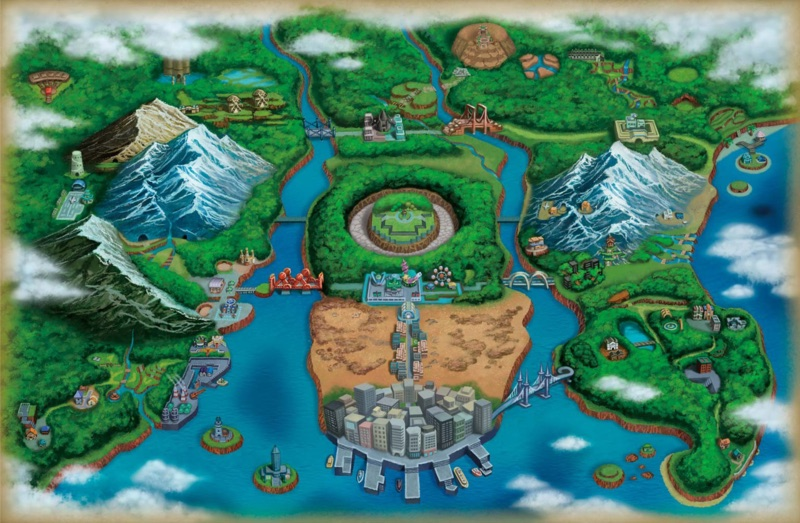
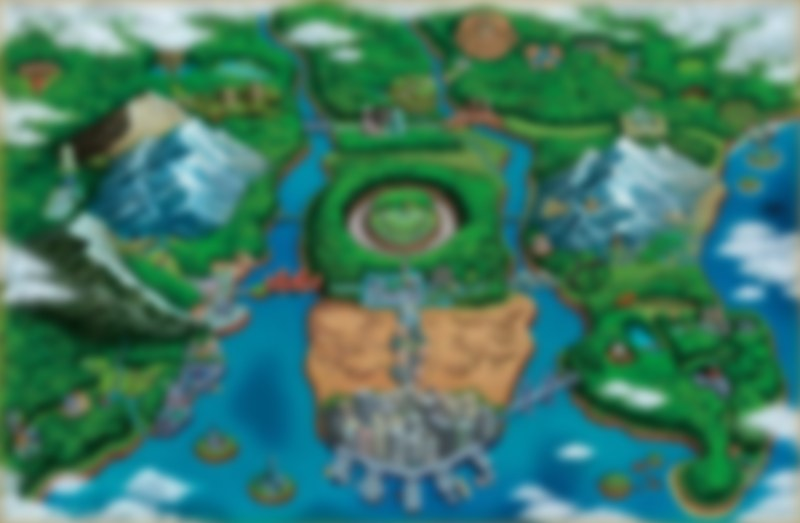
ui

diff --git a/src/components/NodeMap.jsx b/src/components/NodeMap.jsx
@@ -125,10 +125,15 @@ function MapSvg({
               width={(NODE_SIZE * 3.5) / 3} height={(NODE_SIZE * 4.5) / 4}
             />
           </clipPath>
-          <filter id="node-shadow" x="-60%" y="-60%" width="220%" height="220%">
+          {/* Item/pokéball/grass nodes. These draw at NODE_SIZE (or 0.7x for
+              grass) — roughly a THIRD the box the trainer sheet uses — and
+              filter primitives are in user-space units, so reusing the trainer
+              values here produced a shadow far too small and diffuse to read
+              against the map. Scaled up to match the trainers' apparent weight. */}
+          <filter id="node-shadow" x="-80%" y="-80%" width="260%" height="260%">
             {/* Larger, softer, subtler shadow behind the tight one */}
-            <feDropShadow dx="3" dy="7" stdDeviation="9" floodColor="rgba(0,0,0,0.35)" />
-            <feDropShadow dx="2" dy="3" stdDeviation="3" floodColor="rgba(0,0,0,0.9)" />
+            <feDropShadow dx="2" dy="5" stdDeviation="5" floodColor="rgba(0,0,0,0.4)" />
+            <feDropShadow dx="1" dy="2" stdDeviation="1.5" floodColor="rgba(0,0,0,0.95)" />
           </filter>
           <filter id="trainer-shadow" x="-60%" y="-60%" width="220%" height="220%">
             <feDropShadow dx="3" dy="7" stdDeviation="9" floodColor="rgba(0,0,0,0.35)" />
@@ -153,6 +158,36 @@ function MapSvg({
             <feFlood floodColor="#ffffff" result="white" />
             <feComposite in="white" in2="expanded" operator="in" result="outline" />
             <feMerge>
+              <feMergeNode in="outline" />
+              <feMergeNode in="SourceGraphic" />
+            </feMerge>
+          </filter>
+          {/* Small-node (item/pokéball/grass) variants of the two outline
+              filters. Same look as the trainer ones, but the filter region is
+              widened so the yellow glow isn't clipped on these much smaller
+              boxes, and the shadow is merged in — the outline filters replace
+              #node-shadow when a node is reachable/hovered, so without this the
+              drop shadow would vanish exactly on the nodes the player can reach. */}
+          <filter id="hover-outline-sm" x="-80%" y="-80%" width="260%" height="260%" colorInterpolationFilters="sRGB">
+            <feDropShadow in="SourceGraphic" dx="2" dy="5" stdDeviation="5" floodColor="rgba(0,0,0,0.4)" result="shadowed" />
+            <feMorphology in="SourceAlpha" operator="dilate" radius="2" result="expanded" />
+            <feFlood floodColor="#ffffff" result="white" />
+            <feComposite in="white" in2="expanded" operator="in" result="outline" />
+            <feDropShadow dx="0" dy="0" stdDeviation="4" floodColor="#facc15" floodOpacity="0.9" result="glow" />
+            <feMerge>
+              <feMergeNode in="shadowed" />
+              <feMergeNode in="glow" />
+              <feMergeNode in="outline" />
+              <feMergeNode in="SourceGraphic" />
+            </feMerge>
+          </filter>
+          <filter id="white-outline-sm" x="-80%" y="-80%" width="260%" height="260%" colorInterpolationFilters="sRGB">
+            <feDropShadow in="SourceGraphic" dx="2" dy="5" stdDeviation="5" floodColor="rgba(0,0,0,0.4)" result="shadowed" />
+            <feMorphology in="SourceAlpha" operator="dilate" radius="2" result="expanded" />
+            <feFlood floodColor="#ffffff" result="white" />
+            <feComposite in="white" in2="expanded" operator="in" result="outline" />
+            <feMerge>
+              <feMergeNode in="shadowed" />
               <feMergeNode in="outline" />
               <feMergeNode in="SourceGraphic" />
             </feMerge>
@@ -212,7 +247,7 @@ function MapSvg({
                 return (
                   <image href={icon} x={offset} y={offset}
                     width={size} height={size}
-                    filter={isHovered ? 'url(#hover-outline)' : reachable ? 'url(#white-outline)' : 'url(#node-shadow)'}
+                    filter={isHovered ? 'url(#hover-outline-sm)' : reachable ? 'url(#white-outline-sm)' : 'url(#node-shadow)'}
                     style={{ imageRendering: 'pixelated', opacity }}
                   />
                 )

diff --git a/src/components/RegionSelect.jsx b/src/components/RegionSelect.jsx
@@ -53,12 +53,17 @@ function RegionCard({ region, isDesktop, cards, borderStyle, hovered, setHovered
           backgroundColor: '#1a1a1a',
         }}
       >
-        {/* Region map backdrop — blurred + darkened so the legendaries and text
-            stay legible over it. */}
+        {/* Region map backdrop — darkened so the legendaries and text stay
+            legible over it. The blur is BAKED INTO the .jpg assets rather than
+            applied with a CSS filter: a small-radius filter: blur() rasterizes
+            very differently across GPUs (near-invisible on 1x Windows/ANGLE,
+            heavy on a 2x Retina panel), so the two never matched. Pre-blurred
+            pixels look identical everywhere, and compress much smaller. Re-blur
+            with scripts/preblurRegionMaps.mjs if the amount needs tuning. */}
         <img src={region.map} alt="" style={{
           position: 'absolute', inset: 0, width: '100%', height: '100%',
           objectFit: 'cover', transform: 'scale(1.05)',
-          filter: available ? 'blur(1.5px) brightness(0.75)' : 'blur(1.5px) brightness(0.3) grayscale(0.5)',
+          filter: available ? 'brightness(0.75)' : 'brightness(0.3) grayscale(0.5)',
         }} />
         {/* Legendary duo — fills the box as the background */}
         <div style={{ position: 'absolute', inset: 0, display: 'flex', alignItems: 'center', justifyContent: 'center' }}>

diff --git a/Agents.md b/Agents.md
@@ -49,3 +49,5 @@ npm run build:dex  # regenerate public/data/pokedex.json + evolutions.json
 ## Important Stuff
 IMPORTANT: if you're asking me to do follow up steps, please print out some type of large banner with # saying "YOUR ATTENTION IS REQUIRED SIR" with cool emoji output
 
+##
+- Always ask for more information if necessary.
